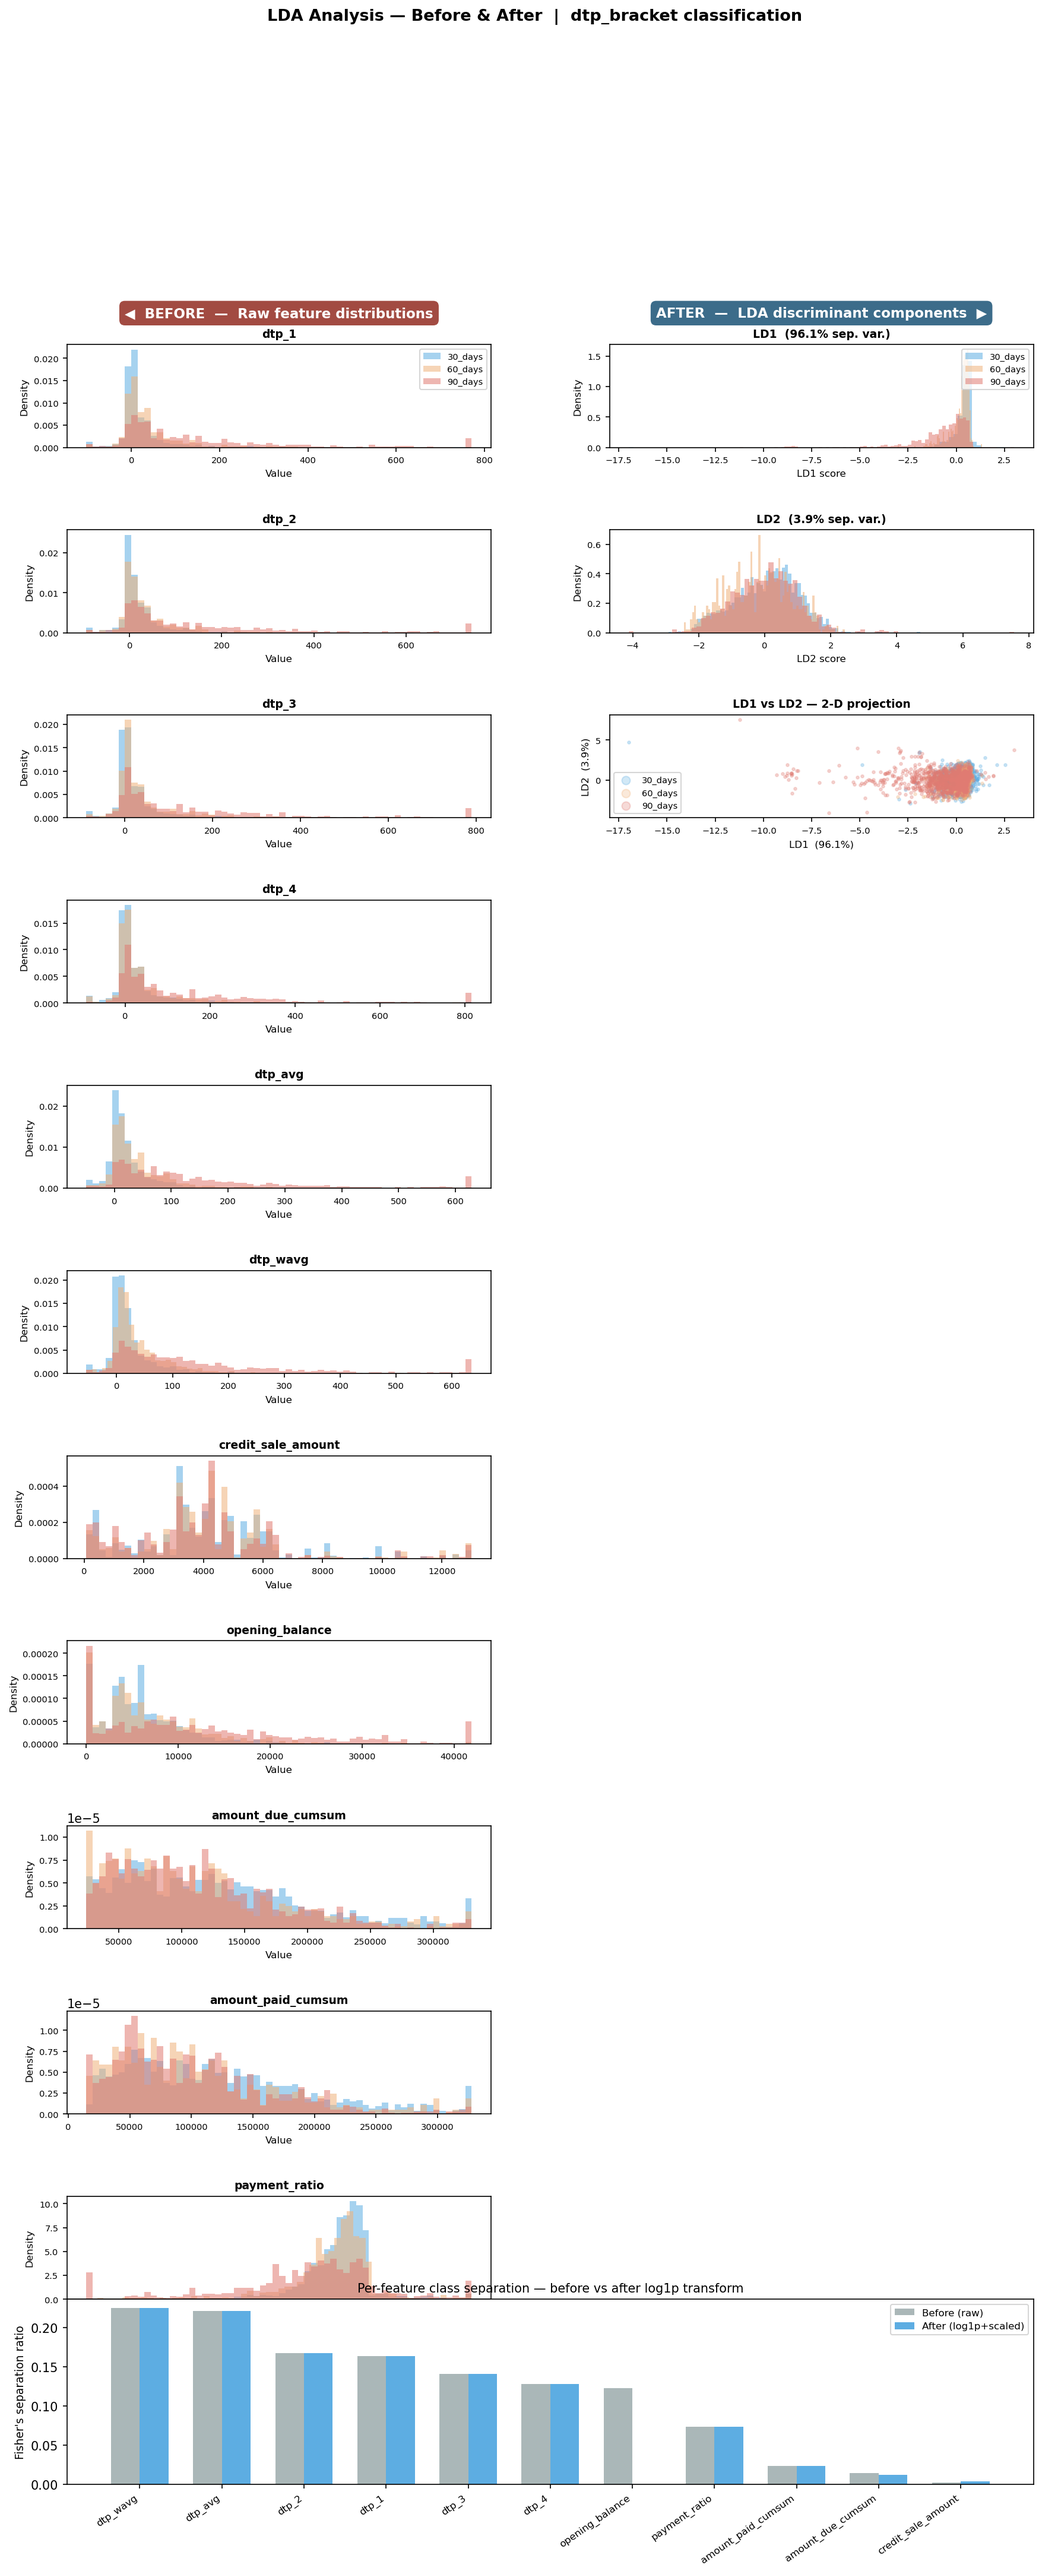
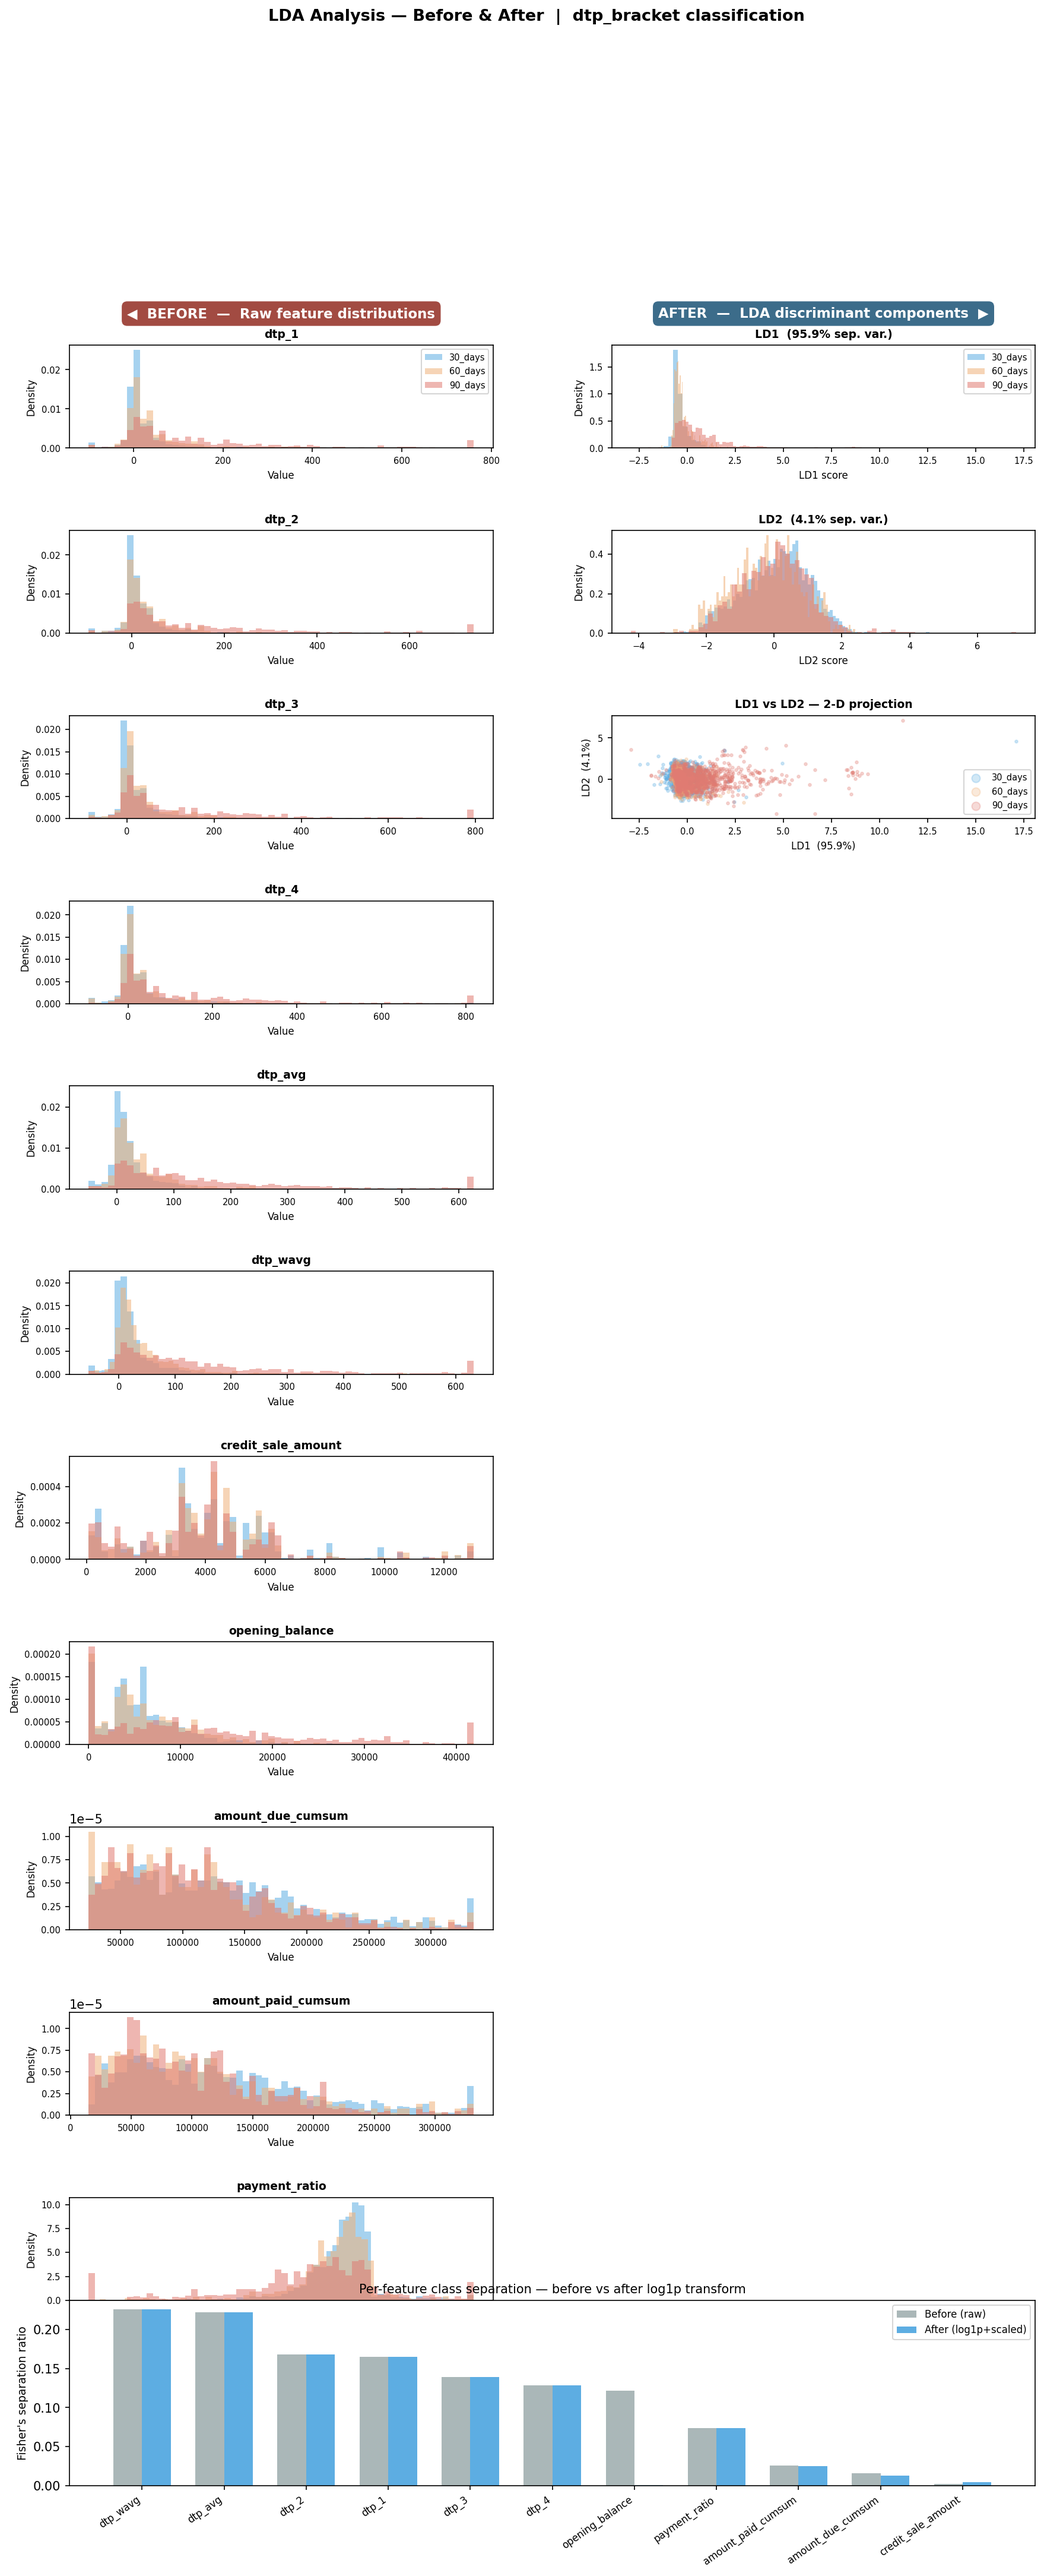
Update experiment logging and fix datetime import issue
- Updated `run_experiment.py` to create a log file for experiment execution using Papermill.
- Added logging functionality to track the start and completion of the experiment.
- Fixed a NameError in `Machine Learning.ipynb` by ensuring the datetime module is imported.
- Updated `generate_survival_features.py` to use trapezoid from scipy for calculating expected survival time.
- Replaced binary files for `lda_before_after.png` and `credit_sale_invoices.xlsx` with updated versions.

diff --git a/run_experiment.py b/run_experiment.py
@@ -1,0 +1,37 @@
+import subprocess
+import sys
+from datetime import datetime
+from pathlib import Path
+
+# Create logs folder if it doesn't exist
+log_dir = Path("annesnotes/logs")
+log_dir.mkdir(parents=True, exist_ok=True)
+
+log_file = log_dir / f"experiment_log_{datetime.now().strftime('%Y%m%d_%H%M%S')}.txt"
+executed_nb = log_dir / "Machine Learning_executed.ipynb"
+
+with open(log_file, "w") as f:
+    f.write(f"Starting experiment at {datetime.now()}\n")
+    f.flush()
+    
+    result = subprocess.run(
+        [
+            "papermill",
+            "Machine Learning.ipynb",
+            str(executed_nb),
+            "--log-output",
+            "--stdout-file", str(log_file)
+        ],
+        capture_output=False,
+        text=True
+    )
+
+if result.returncode == 0:
+    print(f"✓ Experiment completed successfully. Log: {log_file}")
+    sys.exit(0)
+else:
+    print(f"✗ Experiment failed. Check log: {log_file}")
+    sys.exit(1)
+
+#to run: python run_experiment.py
+#to monitor log while its running, in another terminal: Get-Content annesnotes/logs/experiment_log_*.txt -Wait

diff --git a/machine_learning/utils/features/generate_survival_features.py b/machine_learning/utils/features/generate_survival_features.py
@@ -5,6 +5,7 @@ from typing import Optional, Tuple, Union
 from sklearn.preprocessing import StandardScaler
 from sksurv.linear_model import CoxnetSurvivalAnalysis
 from sksurv.util import Surv
+from scipy.integrate import trapezoid
 
 from machine_learning.utils.data.clean_survival_inputs import clean_survival_inputs
 
@@ -60,7 +61,7 @@ def _expected_survival_time(sf) -> float:
     if t[0] > 0:
         t = np.concatenate([[0.0], t])
         s = np.concatenate([[1.0], s])
-    return float(np.trapz(s, t))
+    return float(trapezoid(s, t))
 
 
 def _compute_survival_features(
